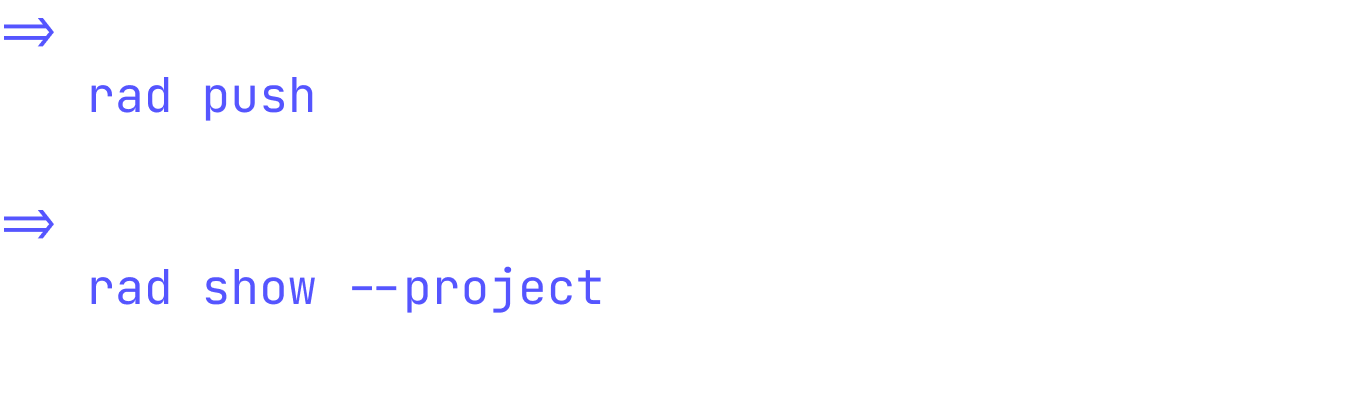
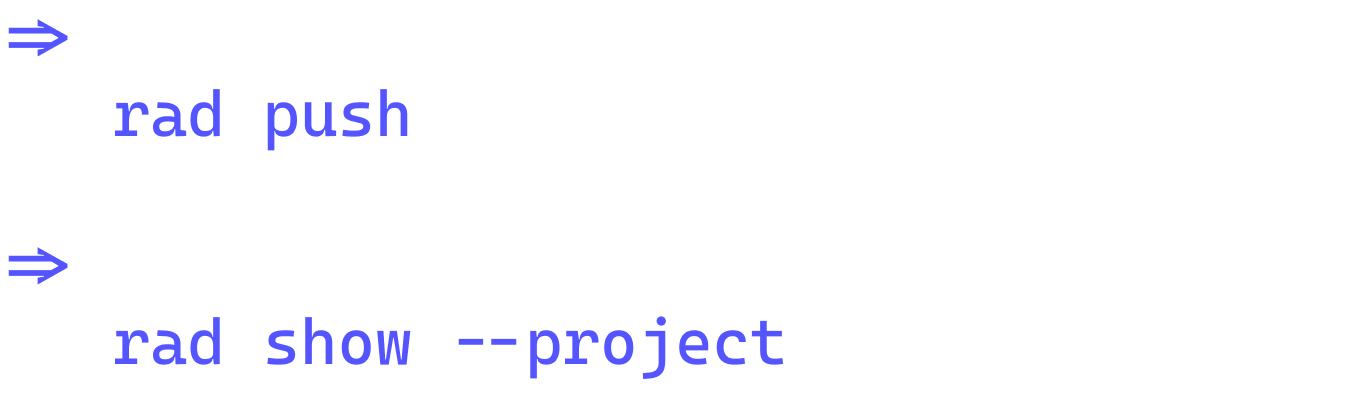
text change, make cli image bigger

diff --git a/styles.css b/styles.css
@@ -277,6 +277,7 @@ section.cli-section {
   width: 70%;
   align-self: center;
   text-align: left;
+  height: max-content;
 }
 
 .terminal::-webkit-scrollbar {
@@ -306,6 +307,8 @@ section.cli-section {
 
 .feature img {
   width: 100%;
+  padding-bottom: 2vw;
+  border-bottom: 1px solid var(--color-foreground-1);
 }
 
 /* Explore orgs */

diff --git a/index.html b/index.html
@@ -64,7 +64,7 @@
 
     <section class="explore">
       <h3>
-        Explore orgs on the Radicle network:
+        Check out orgs already on the Radicle network:
       </h3>
       <ul class="orgs">
         <li class="org">
